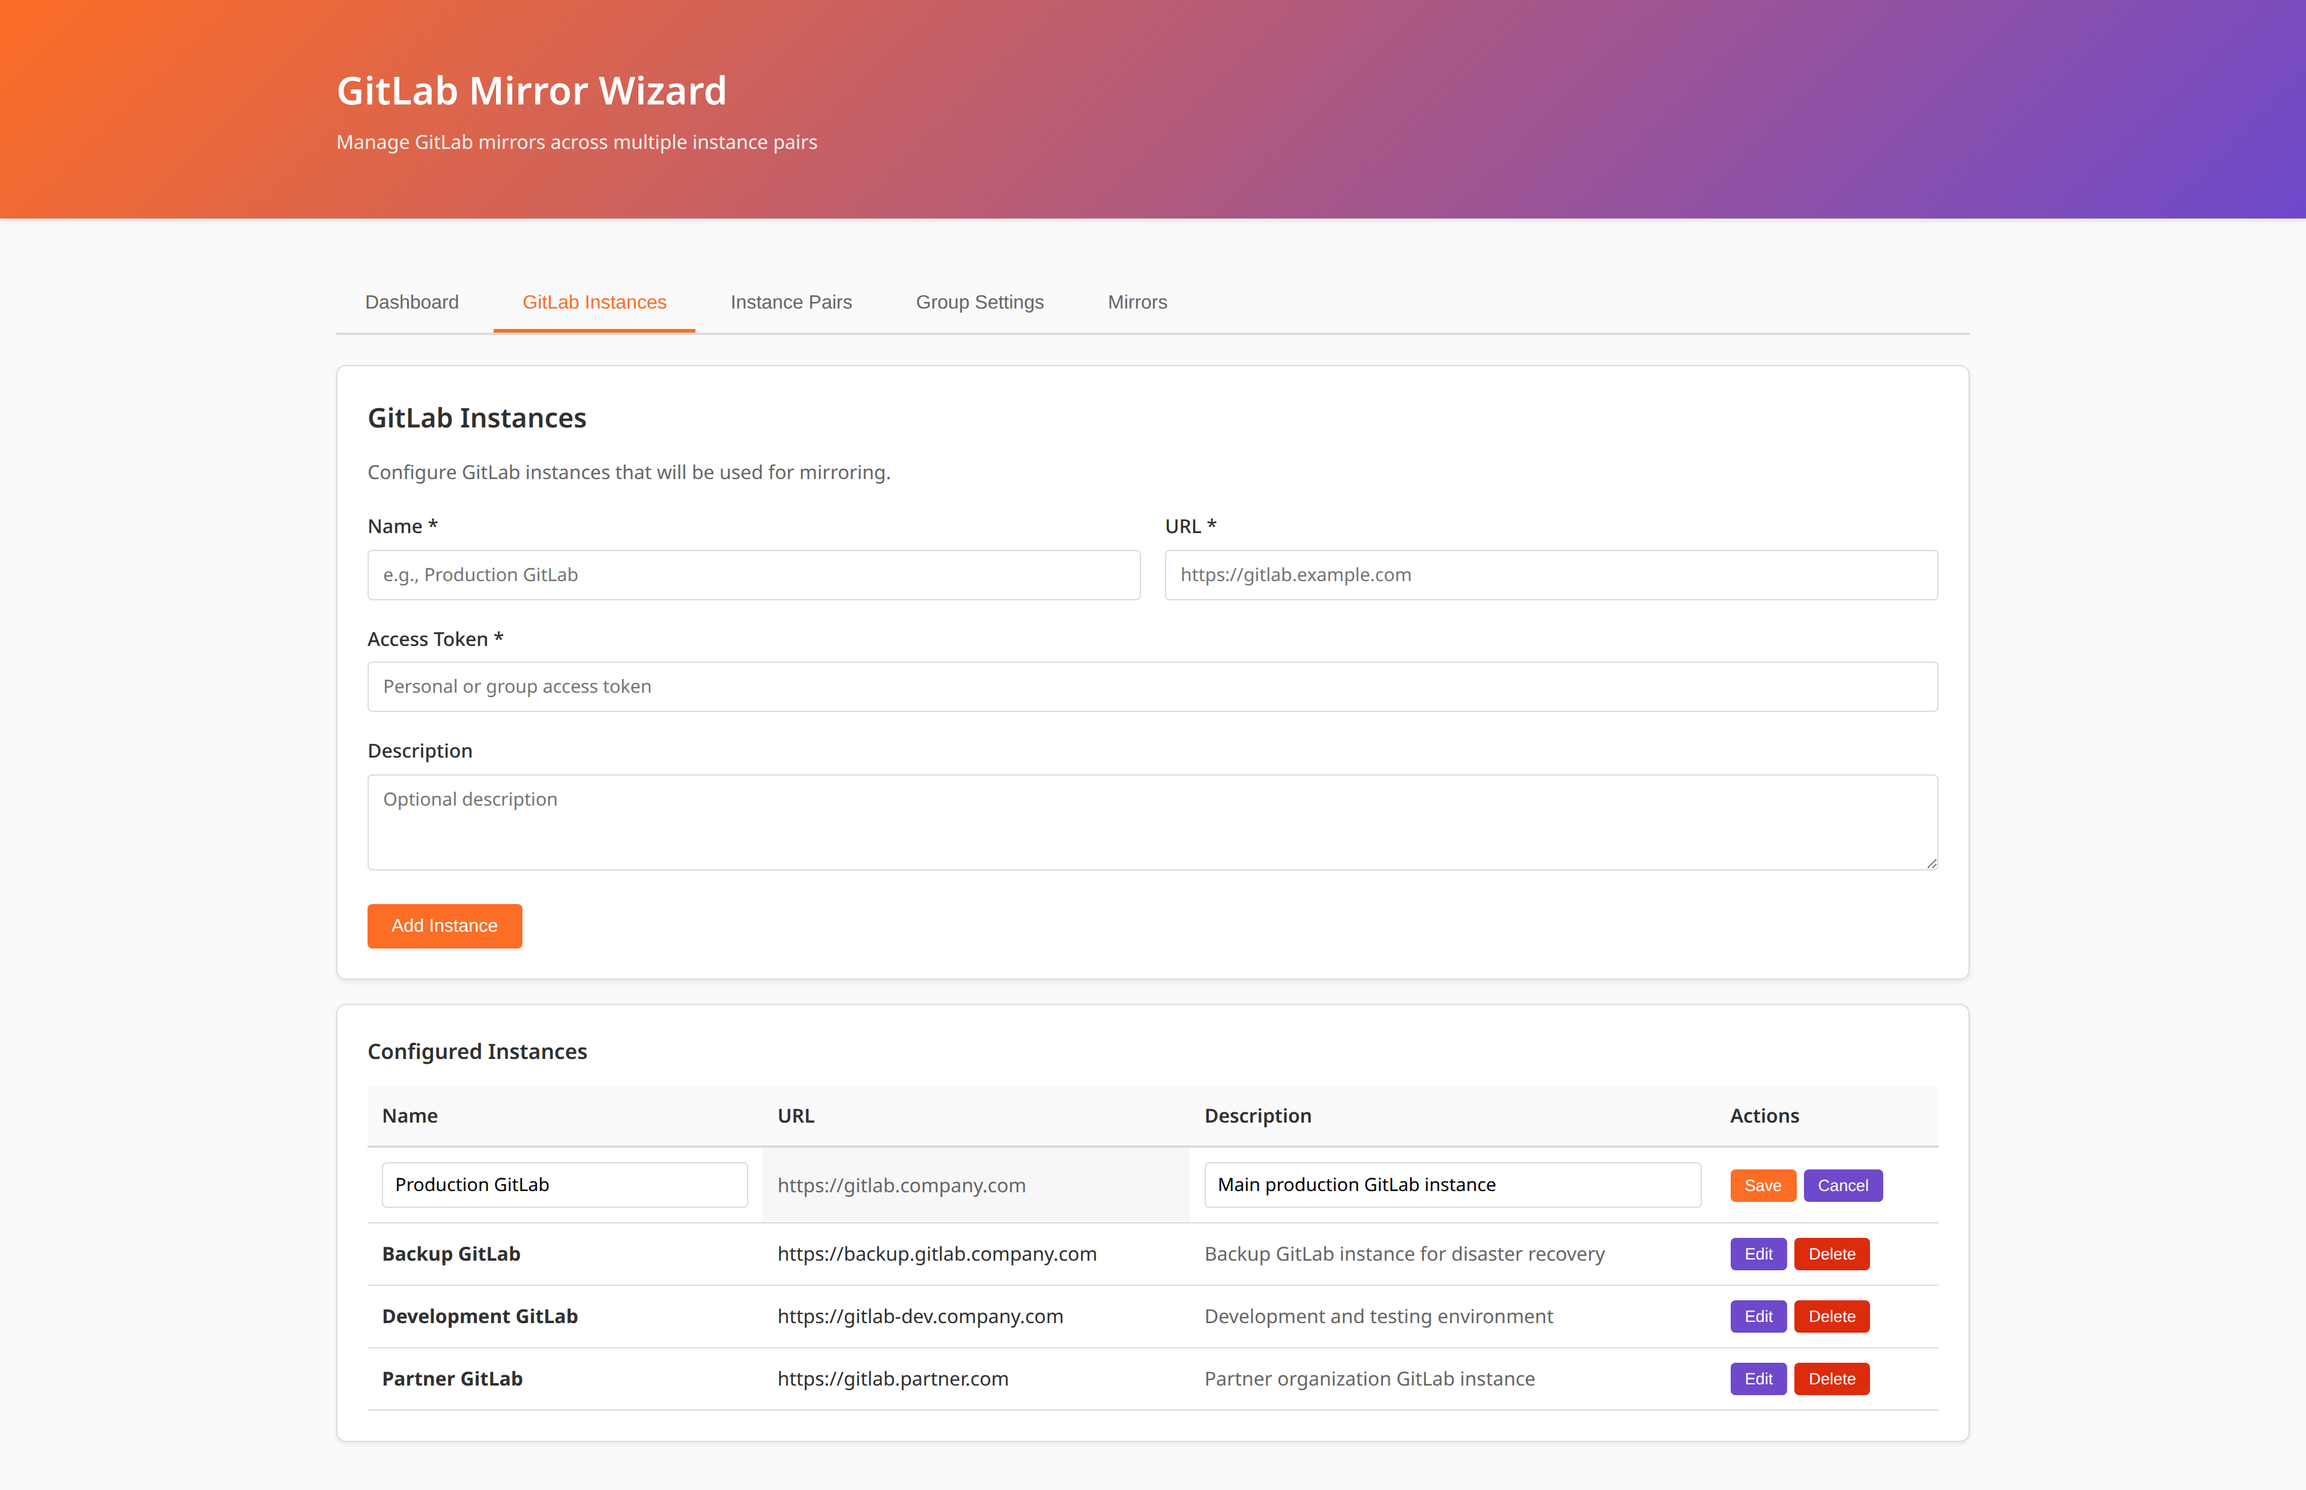
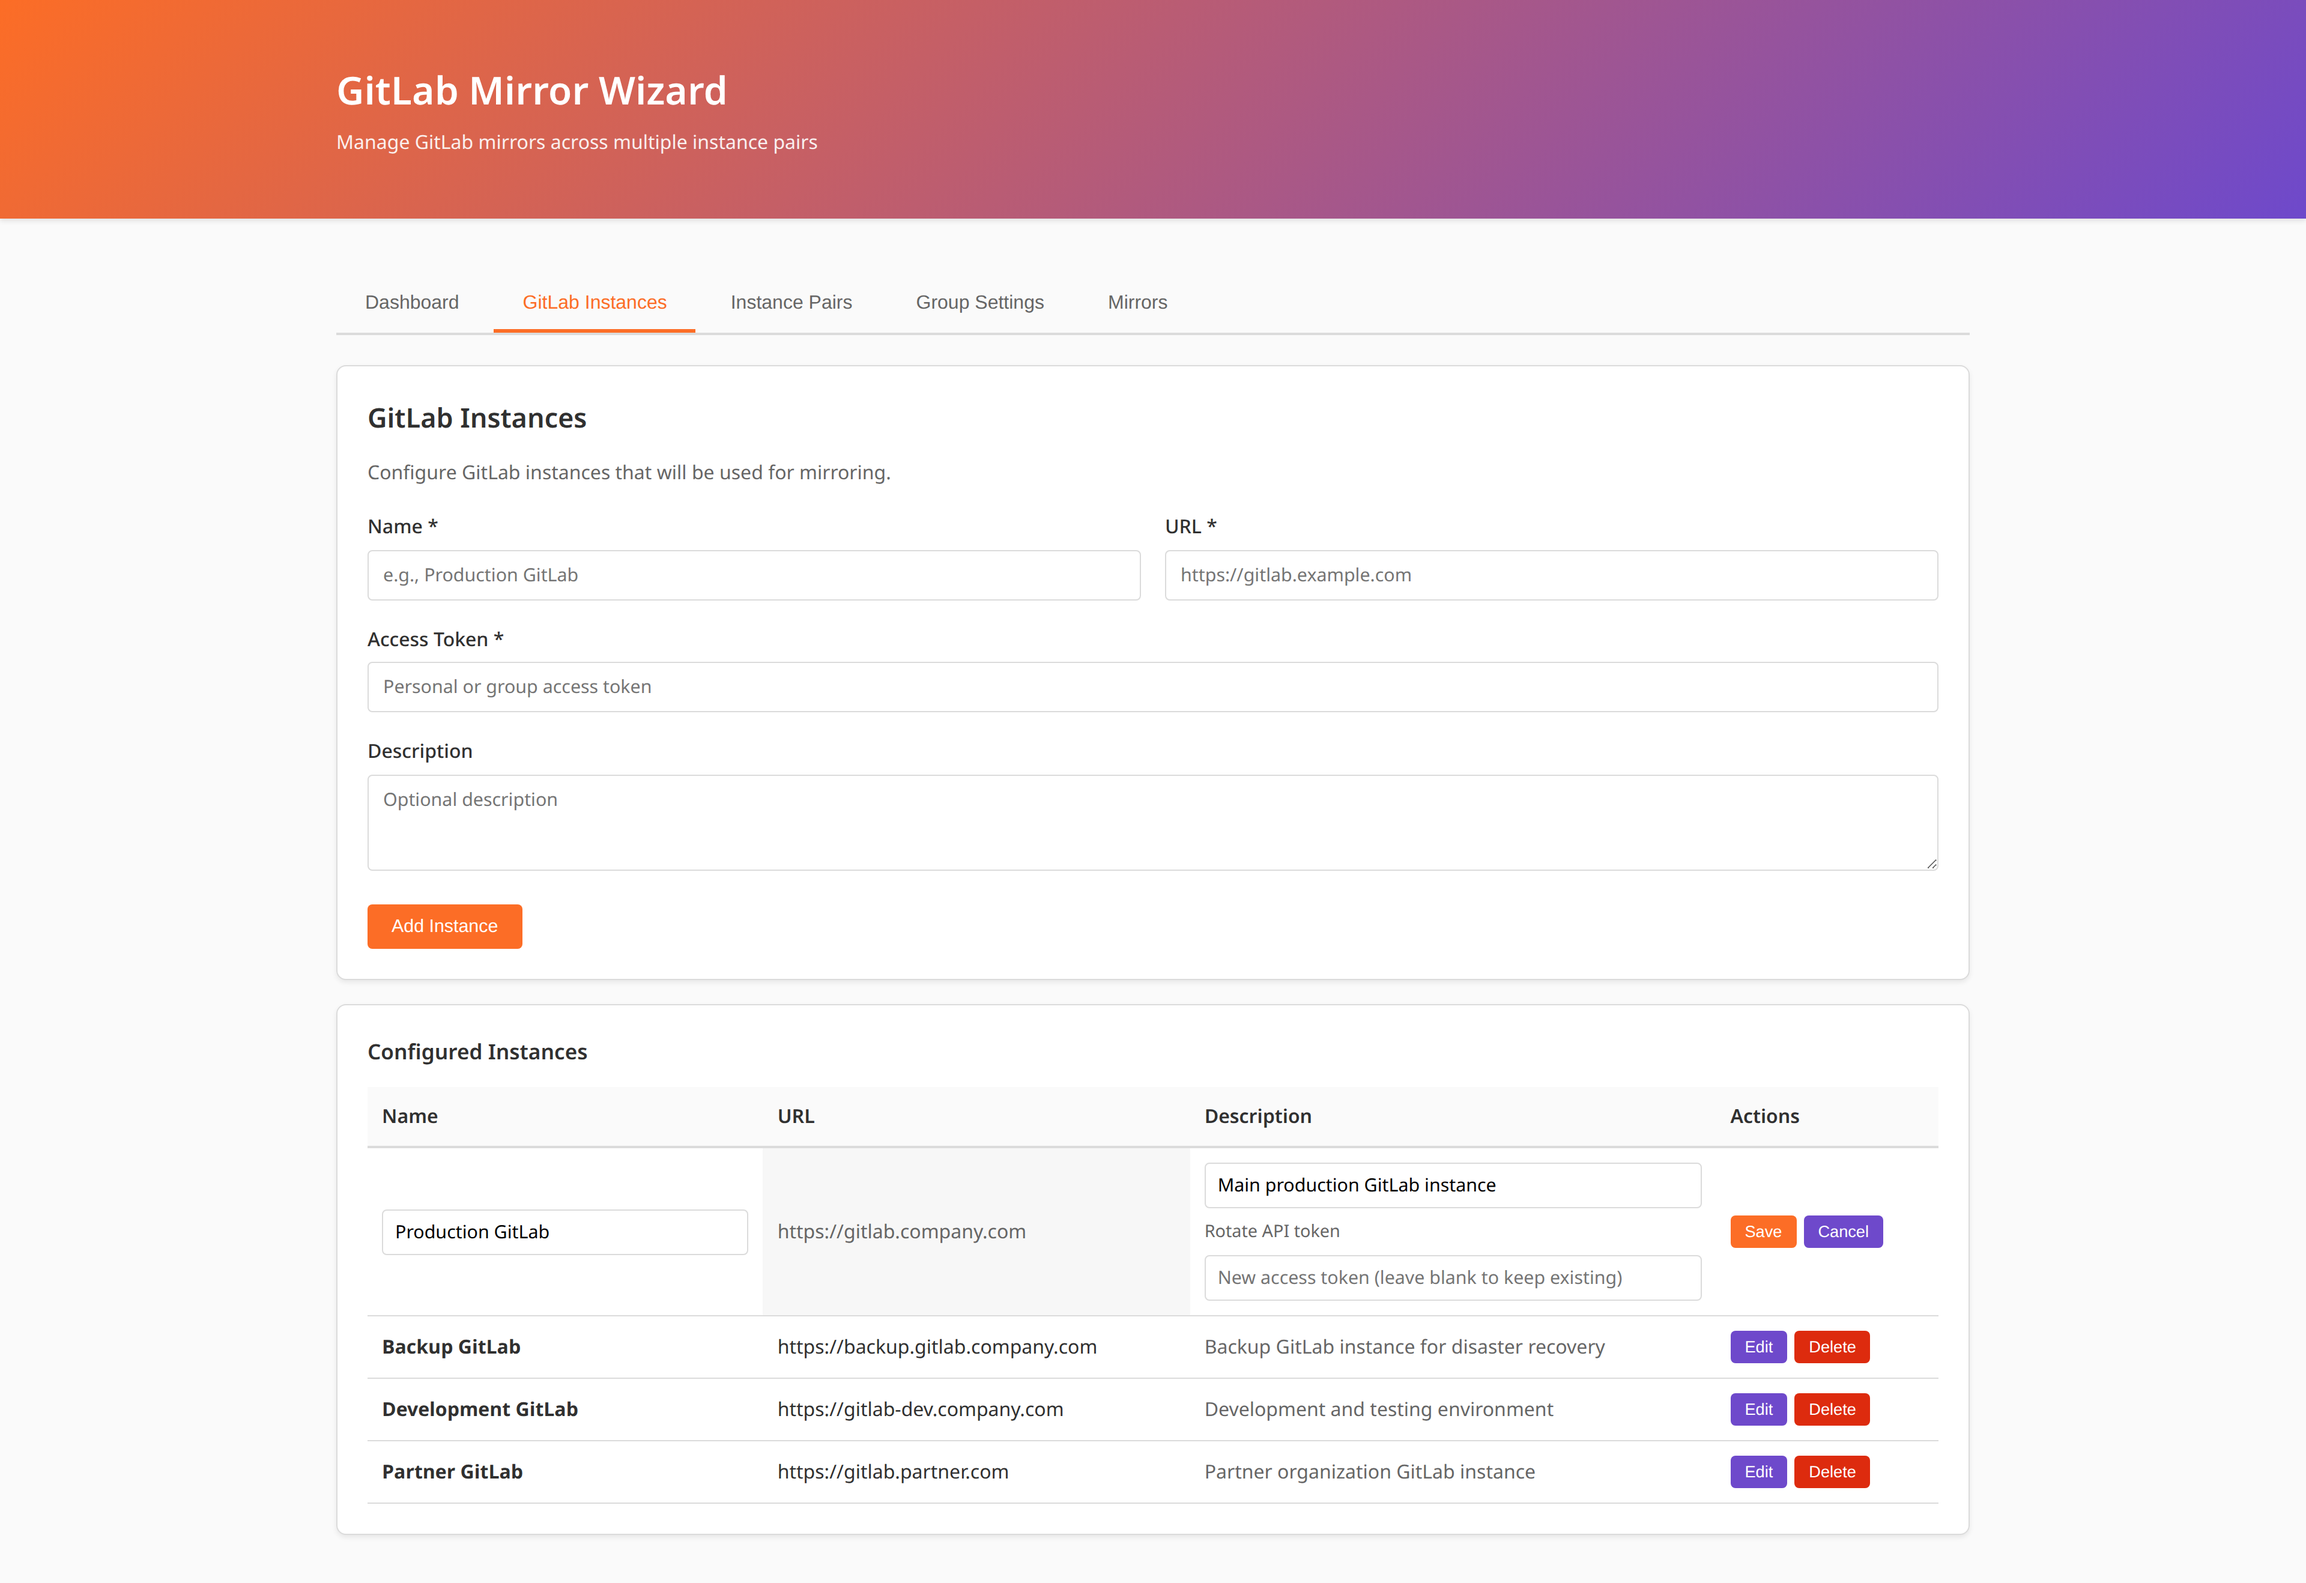
Refactor instance settings to include API token rotation

diff --git a/docs/screenshots/demo-instances.html b/docs/screenshots/demo-instances.html
@@ -71,7 +71,13 @@
                         <tr>
                             <td><input class="table-input" value="Production GitLab"></td>
                             <td class="cell-locked" title="Instance URL is locked once it is used by a pair">https://gitlab.company.com</td>
-                            <td><input class="table-input" value="Main production GitLab instance"></td>
+                            <td>
+                                <div style="display:grid; gap:8px">
+                                    <input class="table-input" value="Main production GitLab instance">
+                                    <div class="text-muted" style="font-size:0.9rem">Rotate API token</div>
+                                    <input class="table-input" type="password" value="" placeholder="New access token (leave blank to keep existing)">
+                                </div>
+                            </td>
                             <td>
                                 <div class="table-actions">
                                     <button class="btn btn-primary btn-small">Save</button>
